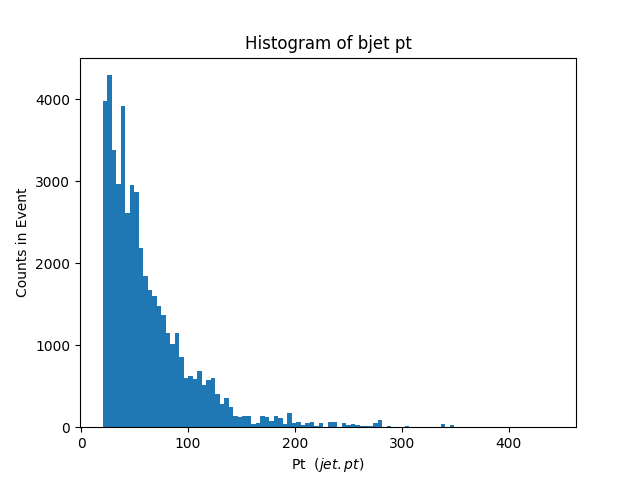
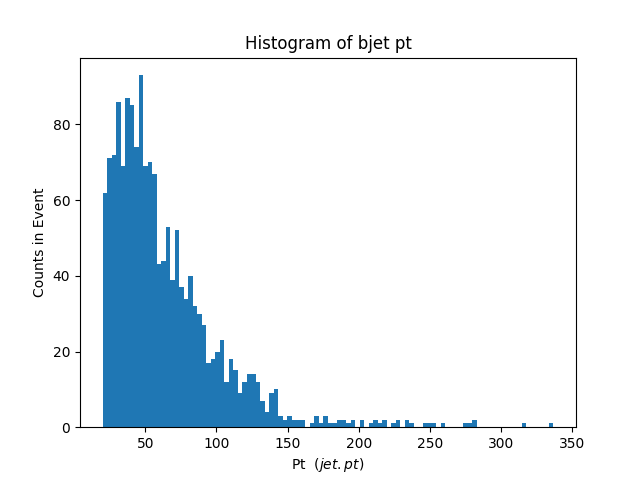
Fixed double counting

diff --git a/Examples/9. Higgs - WIP/data.py b/Examples/9. Higgs - WIP/data.py
@@ -30,7 +30,6 @@ titles = [
             "Histogram of nonbjet phi",
             "Histogram of nonbjet mass",
             "Histogram of nonbjet pt",
-            "Histogram of number of b jets",
         ]
 xlabels = [
             "Eta ($\eta$)",
@@ -41,7 +40,6 @@ xlabels = [
             "Phi ($\phi$)",
             "Mass ($GeV$)",
             "Pt  ($jet.pt$)",
-            "Number of b jets"
         ]
 ylabel = "Counts in Event"
 n_bins = [
@@ -53,15 +51,15 @@ n_bins = [
             100,
             100,
             100,
-            100
         ]
 class event_hists(object):
     # A data structure which contains the Eta, Phi, pt, and invariant
     # mass of the jet, maintaing those two sets for jets of 
     # pdgid = 5 AKA  'bjet', and non bjets.
-    def __init__(self):
+    def __init__(self, folder_dest=""):
         self.hists = {}
         for i, title in enumerate(titles): self.hists[i] = []
+        self.fdest = folder_dest
 
     def update(self, isbjet, eta, mass, phi, pt):
         update_vals = [eta, phi, mass, pt]
@@ -82,7 +80,7 @@ class event_hists(object):
             plt.title(titles[i])
             plt.xlabel(xlabels[i])
             plt.ylabel(ylabel)
-            plt.savefig("hists/"+titles[i]+".png")
+            plt.savefig("hists/"+self.fdest+"/"+titles[i]+".png")
             # out_list.append(plt.object) whatever code here
             plt.close()
                 
@@ -96,13 +94,17 @@ def update(bquarks, particle):
     if abs(particle.pid) == 5 and particle.status == 71:
         bquarks.append(particle)
 
-def update_if_bjet(jet, bquarks, events_hists):  
+def update_if_bjet(jet, bquarks, events_hists, bjets, otherjets):  
     jet_lv = LorentzVector(jet.px, jet.py, jet.pz, jet.e)
     for bquark in bquarks:
         bquark_lv = LorentzVector(bquark.px, bquark.py, bquark.pz, bquark.e)
         if (jet_lv.deltar(bquark_lv) < 0.4):
               events_hists.update(True,  jet.eta, jet.mass, jet.phi, jet.pt)
-        else: events_hists.update(False, jet.eta, jet.mass, jet.phi, jet.pt)
+              bjets.append(jet)
+
+        else: 
+            events_hists.update(False, jet.eta, jet.mass, jet.phi, jet.pt)
+            otherjets.append(jet)
 
 def pythia_sim(cmd_file, part_name=""):
     # The main simulation. Takes a cmd_file as input. part_name 
@@ -111,11 +113,15 @@ def pythia_sim(cmd_file, part_name=""):
     # Returns an array of 2D histograms, mapping eta, phi, with transverse
     # energy.
     pythia                   = Pythia(cmd_file, random_state=1)
-    events_data_package      = event_hists()
-    bquarks                  = []
-    bjets                    = []
-    otherjets                = []
+    if part_name == "higgsWW": events_data_package = event_hists("ff2HffTww")
+    else                     : events_data_package = event_hists("ff2HffTzz")
+    bquarksAtEvent           = []
+    bjetsAtEvent             = []
+    otherJetsAtEvent         = []
     for event in pythia(events=num_events):
+        bjets                    = []
+        bquarks                  = []
+        otherjets                = []
         final_state_selection    = ((STATUS == 1)   & 
                                  ~HAS_END_VERTEX    &
                                  (ABS_PDG_ID != 12) &
@@ -126,8 +132,12 @@ def pythia_sim(cmd_file, part_name=""):
         jet_inputs               = event.all(final_state_selection)
         jet_sequence             = cluster(jet_inputs, ep=True, R=0.4, p=-1)
         jets                     = jet_sequence.inclusive_jets(ptmin=20)
-        for jet in jets          : update_if_bjet(jet, bquarks, events_data_package)
-    return events_data_package
+        for jet in jets          : update_if_bjet(jet, bquarks, events_data_package,
+                                                  bjets, otherjets)
+        bquarksAtEvent.append(bquarks)
+        bjetsAtEvent.append(bjets)
+        otherJetsAtEvent.append(otherjets)
+    return events_data_package, bquarksAtEvent, bjetsAtEvent, otherJetsAtEvent
 
 def shuffle_and_stich(A, B, X, Y):
     # A and B are both tensors which map to X and Y respectively
@@ -200,15 +210,50 @@ def structure_data_into_care_package(particle_data_list):
     care_package = np.array([T_i, T_o, Test_i, Test_o], dtype=object)
     return care_package
 
-def make_plots(data_pak): data_pak.save_1d_hists()
+def make_plots(data_pak):
+    data_pak.save_1d_hists()
+
+def plot_num_part_type(list_of_parts, process_type):
+    titles = [
+                "Number of bQuarks in Event",
+                "Number of bjets in Event",
+                "Number of other jets in Event"
+            ]
+    nbins   = [
+                100,
+                100,
+                100
+            ]
+    xlabel = "Counts in Event"
+    ylabel = "In $N$ Events"
+    if process_type == "ww": fdest = "ff2HffTww"
+    else                   : fdest = "ff2HffTzz"
+    # list contains list of bquarks then bjets then otherjets
+    for i, part in enumerate(list_of_parts):
+        for j in range(len(part)): part[j] = len(part[j])
+        plt.figure()
+        plt.hist(part, bins=nbins[i])
+        plt.title(titles[i])
+        plt.xlabel(xlabel)
+        plt.ylabel(ylabel)
+        plt.savefig("hists/"+fdest+"/"+titles[i]+".png")
+        plt.close()
+
 # -----------------------------------------------------------------------
 # Main process 
 # -----------------------------------------------------------------------
 while np.load(open("control", "rb")):
     # ttbar_tensor has indices of event, followed by eta, followed by phi.
     # The value of the h_tensor is the associated transverse energy.
-    higgs_ww_data = pythia_sim('higgsww.cmnd', "higgsWW"); make_plots(higgs_ww_data)
-    higgs_zz_data = pythia_sim('higgszz.cmnd', 'higgsZZ'); make_plots(higgs_zz_data)
+    higgs_ww_data, wwbquarks, wwbjets, wwotherjets = pythia_sim('higgsww.cmnd',
+                                                                     "higgsWW")
+    make_plots(higgs_ww_data)
+    plot_num_part_type([wwbquarks, wwbjets, wwotherjets], "ww")
+
+    higgs_zz_data, zzbquarks, zzbjets, zzotherjets = pythia_sim('higgszz.cmnd',
+                                                                     'higgsZZ')
+    make_plots(higgs_zz_data)
+    plot_num_part_type([zzbquarks, zzbjets, zzotherjets], "zz")
     break
     #care_package  = structure_data_into_care_package([ttbar_data, zz_data])
     #ship(care_package)
